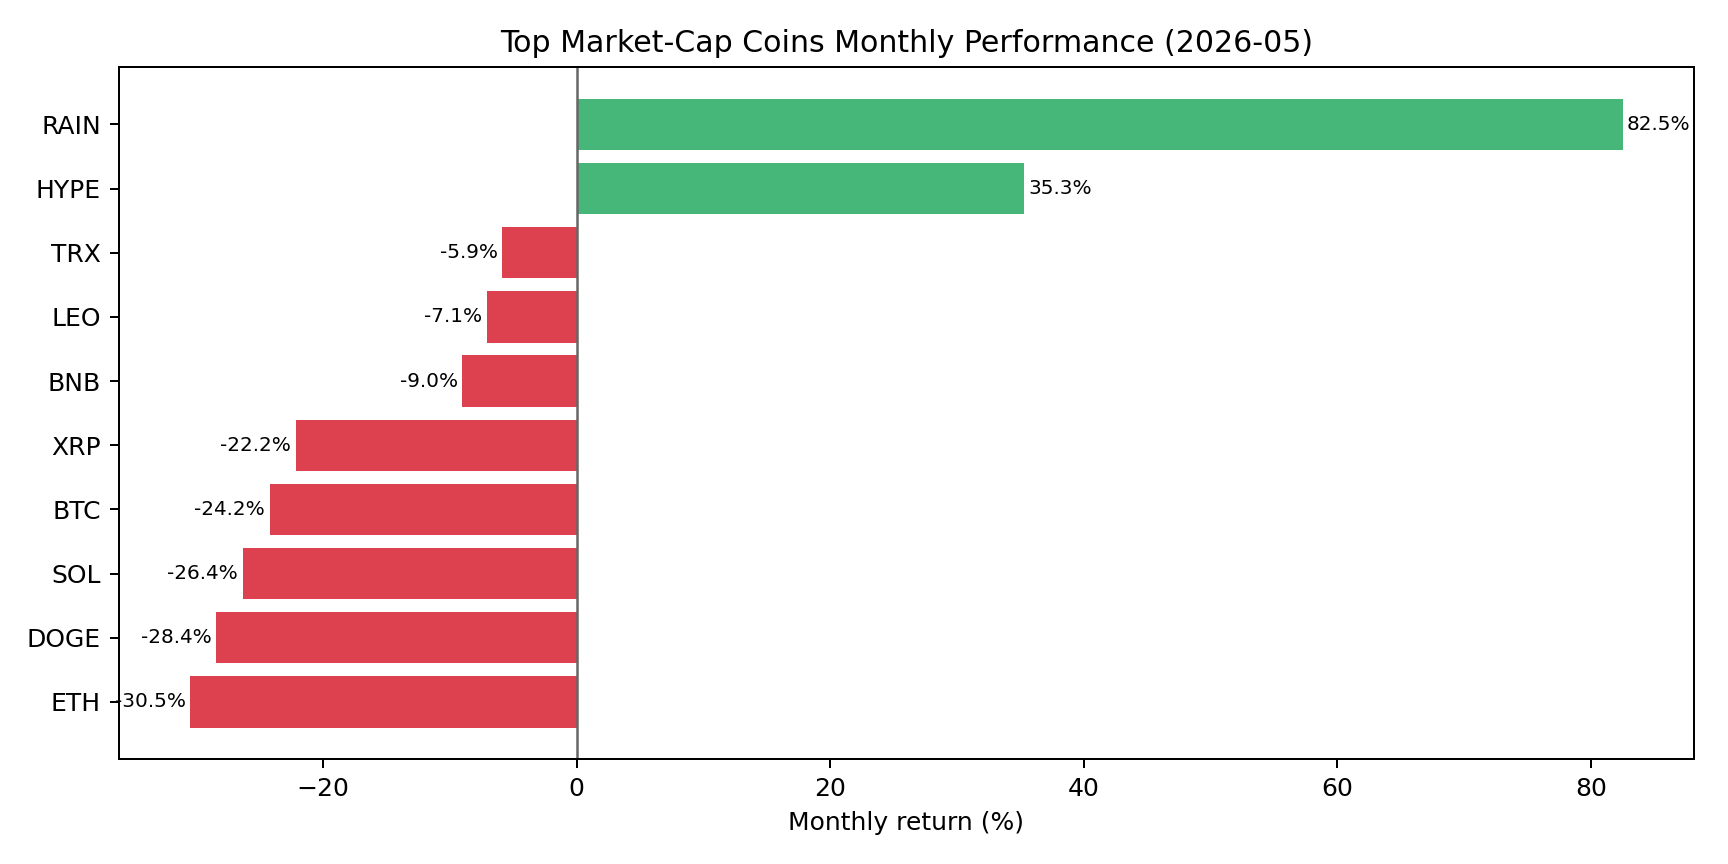
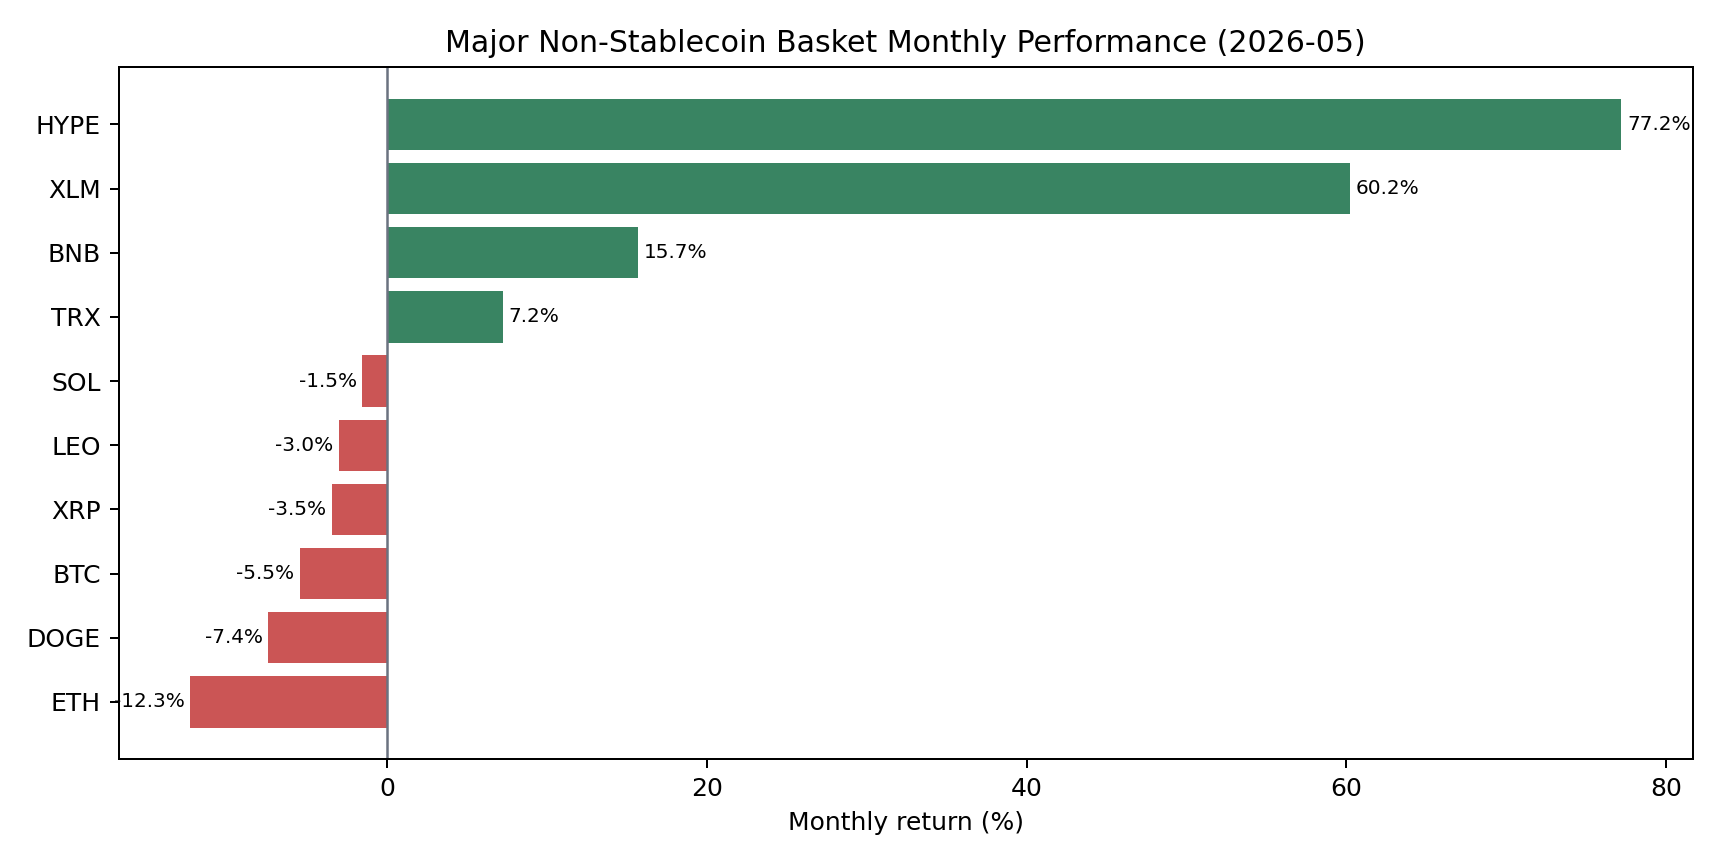
refine 2026-05 monthly report data and news

diff --git a/gitbook/monthly/2026-05/README.md b/gitbook/monthly/2026-05/README.md
@@ -5,9 +5,10 @@
 ## Key Takeaways
 - 市场状态：5 月从修复转入防守整理。总市值较 4 月末回落约 -1.70%，成交额放大没有转化为广泛上涨，说明资金更像在波动中调仓，而不是一致性追涨。
 - 领导结构：BTC 主导率回落约 -0.81pct，但长尾承接仍不足。Top10 外市值占比升至 18.11%，改善幅度有限，尚不足以定义为全面风险扩张。
-- 资产分化：Top10 样本 2 涨 8 跌，中位数收益 -15.59%；RAIN 领涨 +82.49%，ETH 最弱 -30.49%。赚钱效应高度集中，主流资产内部承压更明显。
+- 资产分化：主流非稳定币篮子 4 涨 6 跌，中位数收益 -2.27%；HYPE 领涨 +77.19%，ETH 最弱 -12.31%。赚钱效应集中在交易/基础设施叙事，BTC 与 ETH 没有给出强趋势确认。
 - 杠杆温度：Deribit BTC/ETH 8h 资金费率为 -0.50bps / +0.02bps，整体接近中性但 BTC 偏空。价格回落没有伴随明显多头拥挤，强制去杠杆压力相对可控。
 - 情绪确认：月末恐惧与贪婪指数为 28，月均约 34.4，仍处恐惧区间。情绪没有给出趋势扩张确认，市场更接近谨慎防守后的再定价。
+- Web3 主线：交易所竞争从现货撮合延伸到衍生品、RWA perps、稳定币支付和链上入口。对二级市场而言，这意味着交易量不再只反映币价 beta，也越来越反映产品上线、资产类别扩张和 CEX/DEX 份额迁移。
 
 ## 宏观代理与市场状态
 总市值按月回落约 -1.70%，BTC 主导率也小幅下降，说明市场不是单纯向 BTC 集中防守，而是在主流资产普遍回撤中重新分配风险预算。Top10 外占比略有回升，但绝对水平仍低，长尾资产还没有形成足够强的持续承接。
@@ -26,8 +27,8 @@
 成交扩张没有带来对应的价格广度，是本月需要谨慎解读的地方。它更像波动放大后的再定价和仓位切换，而不是新增资金稳定推动的趋势行情。
 
 ## 主流资产表现与市场广度
-头部资产中，表现最强的是 RAIN（+82.49%），最弱的是 ETH（-30.49%），收益差约 112.97pct。
-上涨资产 2 个、下跌资产 8 个，头部样本中位数收益为 -15.59%。这说明本月不是普涨行情，而是少数标的强势与多数主流资产回撤并存。
+主流非稳定币篮子中，表现最强的是 HYPE（+77.19%），其次是 XLM（+60.24%）；最弱的是 ETH（-12.31%），收益差约 89.51pct。
+上涨资产 4 个、下跌资产 6 个，样本中位数收益为 -2.27%。这说明本月不是普涨行情，而是交易/基础设施和少数高弹性标的更强，BTC、ETH、DOGE 等高流动性资产仍偏弱。
 Top10 外市值占比月末为 18.11%，较 4 月末回升约 +0.96pct，但仍低于健康 altseason 通常需要的广度水平。长尾风险偏好有边际改善，却还没有强到可以抵消主流资产的整体压力。
 
 ![fig2_top10_monthly_performance.png](charts/fig2_top10_monthly_performance.png)
@@ -61,7 +62,16 @@ DVOL 月末降至 BTC 36.40 / ETH 49.63，较月内高点 BTC 41.00 / ETH 55.86 
 
 ![core_chart_5_realized_vol.png](charts/core_chart_5_realized_vol.png)
 
+## 当月 Web3 事件与市场影响
+机构需求有改善，但仍没有扩散成全面 altseason。Coinbase 5 月市场定位报告指出，BTC ETF 资金流在 4 月下旬至 5 月初转为持续正流入，7 日流入重新超过 $1B；同时，altcoin OI dominance 降至多年低位附近，说明资金更偏向 BTC/majors，而不是广泛高 beta 加杠杆。这与本月“成交放大但广度不足”的结论一致：市场并非没有需求，而是需求集中在更高流动性和更容易被机构承接的资产上。[来源：Coinbase Research](https://www.coinbase.com/institutional/research-insights/research/trading-insights/crypto-market-positioning-may-2026)
+
+交易所竞争的主线正在从单一现货成交转向“综合交易与链上入口”。Coinbase 5 月 7 日披露 Q1 结果时提到，其 crypto trading volume market share 升至 8.6% 的新高，衍生品 TTM 成交量同比增长 169%，同时 Base 承载了 62% 的全球链上稳定币交易量。对市场的影响是，CEX 估值和交易活跃度越来越受衍生品、稳定币支付、DEX 聚合和链上应用入口驱动，而不是只看现货手续费周期。[来源：Coinbase Investor Relations](https://investor.coinbase.com/news/news-details/2026/Coinbase-Q1-Financial-Results-Show-Resilient-Financial-Performance-Driven-by-New-All-Time-High-Crypto-Trading-Volume-Market-Share/default.aspx)
+
+RWA perps 成为 5 月最值得跟踪的产品结构变化之一。CMC Research 的 5 月报告显示，RWA perpetuals 在 2025 年 12 月 29 日至 2026 年 5 月 20 日累计成交 $821.8B，最近一完整周成交 $55.9B，CEX 仍占 72% 流量；Binance 单独占 48.6%，Top3（Binance、HIP-3、Bitget）合计 73.5%。这说明交易所产品竞争已经进入非加密资产 perps 阶段，未来月报需要把 RWA/股票/商品 perps 作为交易所流量结构的一部分，而不是只看 BTC/ETH/alt spot。[来源：CoinMarketCap Research](https://coinmarketcap.com/academy/article/rwa-perpetuals-state-of-the-market-%E2%80%94-may-2026)
+
+稳定币、RWA 与 DeFi 风险定价仍是跨月主线。Binance Research 的月度报告把稳定币净发行、RWA 增长、DeFi exploit 损失、pre-IPO perps 和 vault-style borrowing 放在同一框架下讨论，说明大型交易所研究已经不再只写币价涨跌，而是把“链上信用、现实资产映射、协议安全和交易所新品类”作为市场结构变量。对本月报告而言，这意味着 DeFi TVL 和 NFT 成交只能说明链上风险偏好的一部分；更重要的是稳定币流动性、RWA perps 和安全事件如何改变资金愿意承担的风险溢价。[来源：Binance Research](https://public.bnbstatic.com/static/files/research/monthly-market-insights-2026-05.pdf)
+
 ## 下月交易框架（基准情景）
 1. 基准情景：维持核心资产优先，BTC/ETH/SOL 等高流动性资产仍是主要风险预算承载。只要 funding 保持中性附近、DVOL 不重新上冲、Top10 外占比只是温和改善，仓位应以防守和再平衡为主。
-2. 上行情景：若 Top10 外占比连续抬升、头部资产中位数收益转正、成交额维持高位且 F&G 回到中性区间以上，可以逐步提高 beta 暴露，重点选择流动性充足且相对强势的头部 alt。
+2. 上行情景：若 Top10 外占比连续抬升、主流资产篮子中位数收益转正、成交额维持高位且 F&G 回到中性区间以上，可以逐步提高 beta 暴露，重点选择流动性充足且相对强势的头部 alt。
 3. 风险情景：若成交放大但价格和广度继续走弱，或 DVOL 重新抬升而 funding 快速转正，应降低追涨仓位。执行层面优先提高保证金缓冲、收紧长尾币流动性阈值，并对单月涨幅过大的资产分批止盈。

diff --git a/reports/2026-05/secondary_orchestrated/orchestrated_secondary_report.md b/reports/2026-05/secondary_orchestrated/orchestrated_secondary_report.md
@@ -5,9 +5,10 @@
 ## Key Takeaways
 - 市场状态：5 月从修复转入防守整理。总市值较 4 月末回落约 -1.70%，成交额放大没有转化为广泛上涨，说明资金更像在波动中调仓，而不是一致性追涨。
 - 领导结构：BTC 主导率回落约 -0.81pct，但长尾承接仍不足。Top10 外市值占比升至 18.11%，改善幅度有限，尚不足以定义为全面风险扩张。
-- 资产分化：Top10 样本 2 涨 8 跌，中位数收益 -15.59%；RAIN 领涨 +82.49%，ETH 最弱 -30.49%。赚钱效应高度集中，主流资产内部承压更明显。
+- 资产分化：主流非稳定币篮子 4 涨 6 跌，中位数收益 -2.27%；HYPE 领涨 +77.19%，ETH 最弱 -12.31%。赚钱效应集中在交易/基础设施叙事，BTC 与 ETH 没有给出强趋势确认。
 - 杠杆温度：Deribit BTC/ETH 8h 资金费率为 -0.50bps / +0.02bps，整体接近中性但 BTC 偏空。价格回落没有伴随明显多头拥挤，强制去杠杆压力相对可控。
 - 情绪确认：月末恐惧与贪婪指数为 28，月均约 34.4，仍处恐惧区间。情绪没有给出趋势扩张确认，市场更接近谨慎防守后的再定价。
+- Web3 主线：交易所竞争从现货撮合延伸到衍生品、RWA perps、稳定币支付和链上入口。对二级市场而言，这意味着交易量不再只反映币价 beta，也越来越反映产品上线、资产类别扩张和 CEX/DEX 份额迁移。
 
 ## 宏观代理与市场状态
 总市值按月回落约 -1.70%，BTC 主导率也小幅下降，说明市场不是单纯向 BTC 集中防守，而是在主流资产普遍回撤中重新分配风险预算。Top10 外占比略有回升，但绝对水平仍低，长尾资产还没有形成足够强的持续承接。
@@ -26,8 +27,8 @@
 成交扩张没有带来对应的价格广度，是本月需要谨慎解读的地方。它更像波动放大后的再定价和仓位切换，而不是新增资金稳定推动的趋势行情。
 
 ## 主流资产表现与市场广度
-头部资产中，表现最强的是 RAIN（+82.49%），最弱的是 ETH（-30.49%），收益差约 112.97pct。
-上涨资产 2 个、下跌资产 8 个，头部样本中位数收益为 -15.59%。这说明本月不是普涨行情，而是少数标的强势与多数主流资产回撤并存。
+主流非稳定币篮子中，表现最强的是 HYPE（+77.19%），其次是 XLM（+60.24%）；最弱的是 ETH（-12.31%），收益差约 89.51pct。
+上涨资产 4 个、下跌资产 6 个，样本中位数收益为 -2.27%。这说明本月不是普涨行情，而是交易/基础设施和少数高弹性标的更强，BTC、ETH、DOGE 等高流动性资产仍偏弱。
 Top10 外市值占比月末为 18.11%，较 4 月末回升约 +0.96pct，但仍低于健康 altseason 通常需要的广度水平。长尾风险偏好有边际改善，却还没有强到可以抵消主流资产的整体压力。
 
 ![fig2_top10_monthly_performance.png](charts/fig2_top10_monthly_performance.png)
@@ -61,7 +62,16 @@ DVOL 月末降至 BTC 36.40 / ETH 49.63，较月内高点 BTC 41.00 / ETH 55.86 
 
 ![core_chart_5_realized_vol.png](charts/core_chart_5_realized_vol.png)
 
+## 当月 Web3 事件与市场影响
+机构需求有改善，但仍没有扩散成全面 altseason。Coinbase 5 月市场定位报告指出，BTC ETF 资金流在 4 月下旬至 5 月初转为持续正流入，7 日流入重新超过 $1B；同时，altcoin OI dominance 降至多年低位附近，说明资金更偏向 BTC/majors，而不是广泛高 beta 加杠杆。这与本月“成交放大但广度不足”的结论一致：市场并非没有需求，而是需求集中在更高流动性和更容易被机构承接的资产上。[来源：Coinbase Research](https://www.coinbase.com/institutional/research-insights/research/trading-insights/crypto-market-positioning-may-2026)
+
+交易所竞争的主线正在从单一现货成交转向“综合交易与链上入口”。Coinbase 5 月 7 日披露 Q1 结果时提到，其 crypto trading volume market share 升至 8.6% 的新高，衍生品 TTM 成交量同比增长 169%，同时 Base 承载了 62% 的全球链上稳定币交易量。对市场的影响是，CEX 估值和交易活跃度越来越受衍生品、稳定币支付、DEX 聚合和链上应用入口驱动，而不是只看现货手续费周期。[来源：Coinbase Investor Relations](https://investor.coinbase.com/news/news-details/2026/Coinbase-Q1-Financial-Results-Show-Resilient-Financial-Performance-Driven-by-New-All-Time-High-Crypto-Trading-Volume-Market-Share/default.aspx)
+
+RWA perps 成为 5 月最值得跟踪的产品结构变化之一。CMC Research 的 5 月报告显示，RWA perpetuals 在 2025 年 12 月 29 日至 2026 年 5 月 20 日累计成交 $821.8B，最近一完整周成交 $55.9B，CEX 仍占 72% 流量；Binance 单独占 48.6%，Top3（Binance、HIP-3、Bitget）合计 73.5%。这说明交易所产品竞争已经进入非加密资产 perps 阶段，未来月报需要把 RWA/股票/商品 perps 作为交易所流量结构的一部分，而不是只看 BTC/ETH/alt spot。[来源：CoinMarketCap Research](https://coinmarketcap.com/academy/article/rwa-perpetuals-state-of-the-market-%E2%80%94-may-2026)
+
+稳定币、RWA 与 DeFi 风险定价仍是跨月主线。Binance Research 的月度报告把稳定币净发行、RWA 增长、DeFi exploit 损失、pre-IPO perps 和 vault-style borrowing 放在同一框架下讨论，说明大型交易所研究已经不再只写币价涨跌，而是把“链上信用、现实资产映射、协议安全和交易所新品类”作为市场结构变量。对本月报告而言，这意味着 DeFi TVL 和 NFT 成交只能说明链上风险偏好的一部分；更重要的是稳定币流动性、RWA perps 和安全事件如何改变资金愿意承担的风险溢价。[来源：Binance Research](https://public.bnbstatic.com/static/files/research/monthly-market-insights-2026-05.pdf)
+
 ## 下月交易框架（基准情景）
 1. 基准情景：维持核心资产优先，BTC/ETH/SOL 等高流动性资产仍是主要风险预算承载。只要 funding 保持中性附近、DVOL 不重新上冲、Top10 外占比只是温和改善，仓位应以防守和再平衡为主。
-2. 上行情景：若 Top10 外占比连续抬升、头部资产中位数收益转正、成交额维持高位且 F&G 回到中性区间以上，可以逐步提高 beta 暴露，重点选择流动性充足且相对强势的头部 alt。
+2. 上行情景：若 Top10 外占比连续抬升、主流资产篮子中位数收益转正、成交额维持高位且 F&G 回到中性区间以上，可以逐步提高 beta 暴露，重点选择流动性充足且相对强势的头部 alt。
 3. 风险情景：若成交放大但价格和广度继续走弱，或 DVOL 重新抬升而 funding 快速转正，应降低追涨仓位。执行层面优先提高保证金缓冲、收紧长尾币流动性阈值，并对单月涨幅过大的资产分批止盈。
